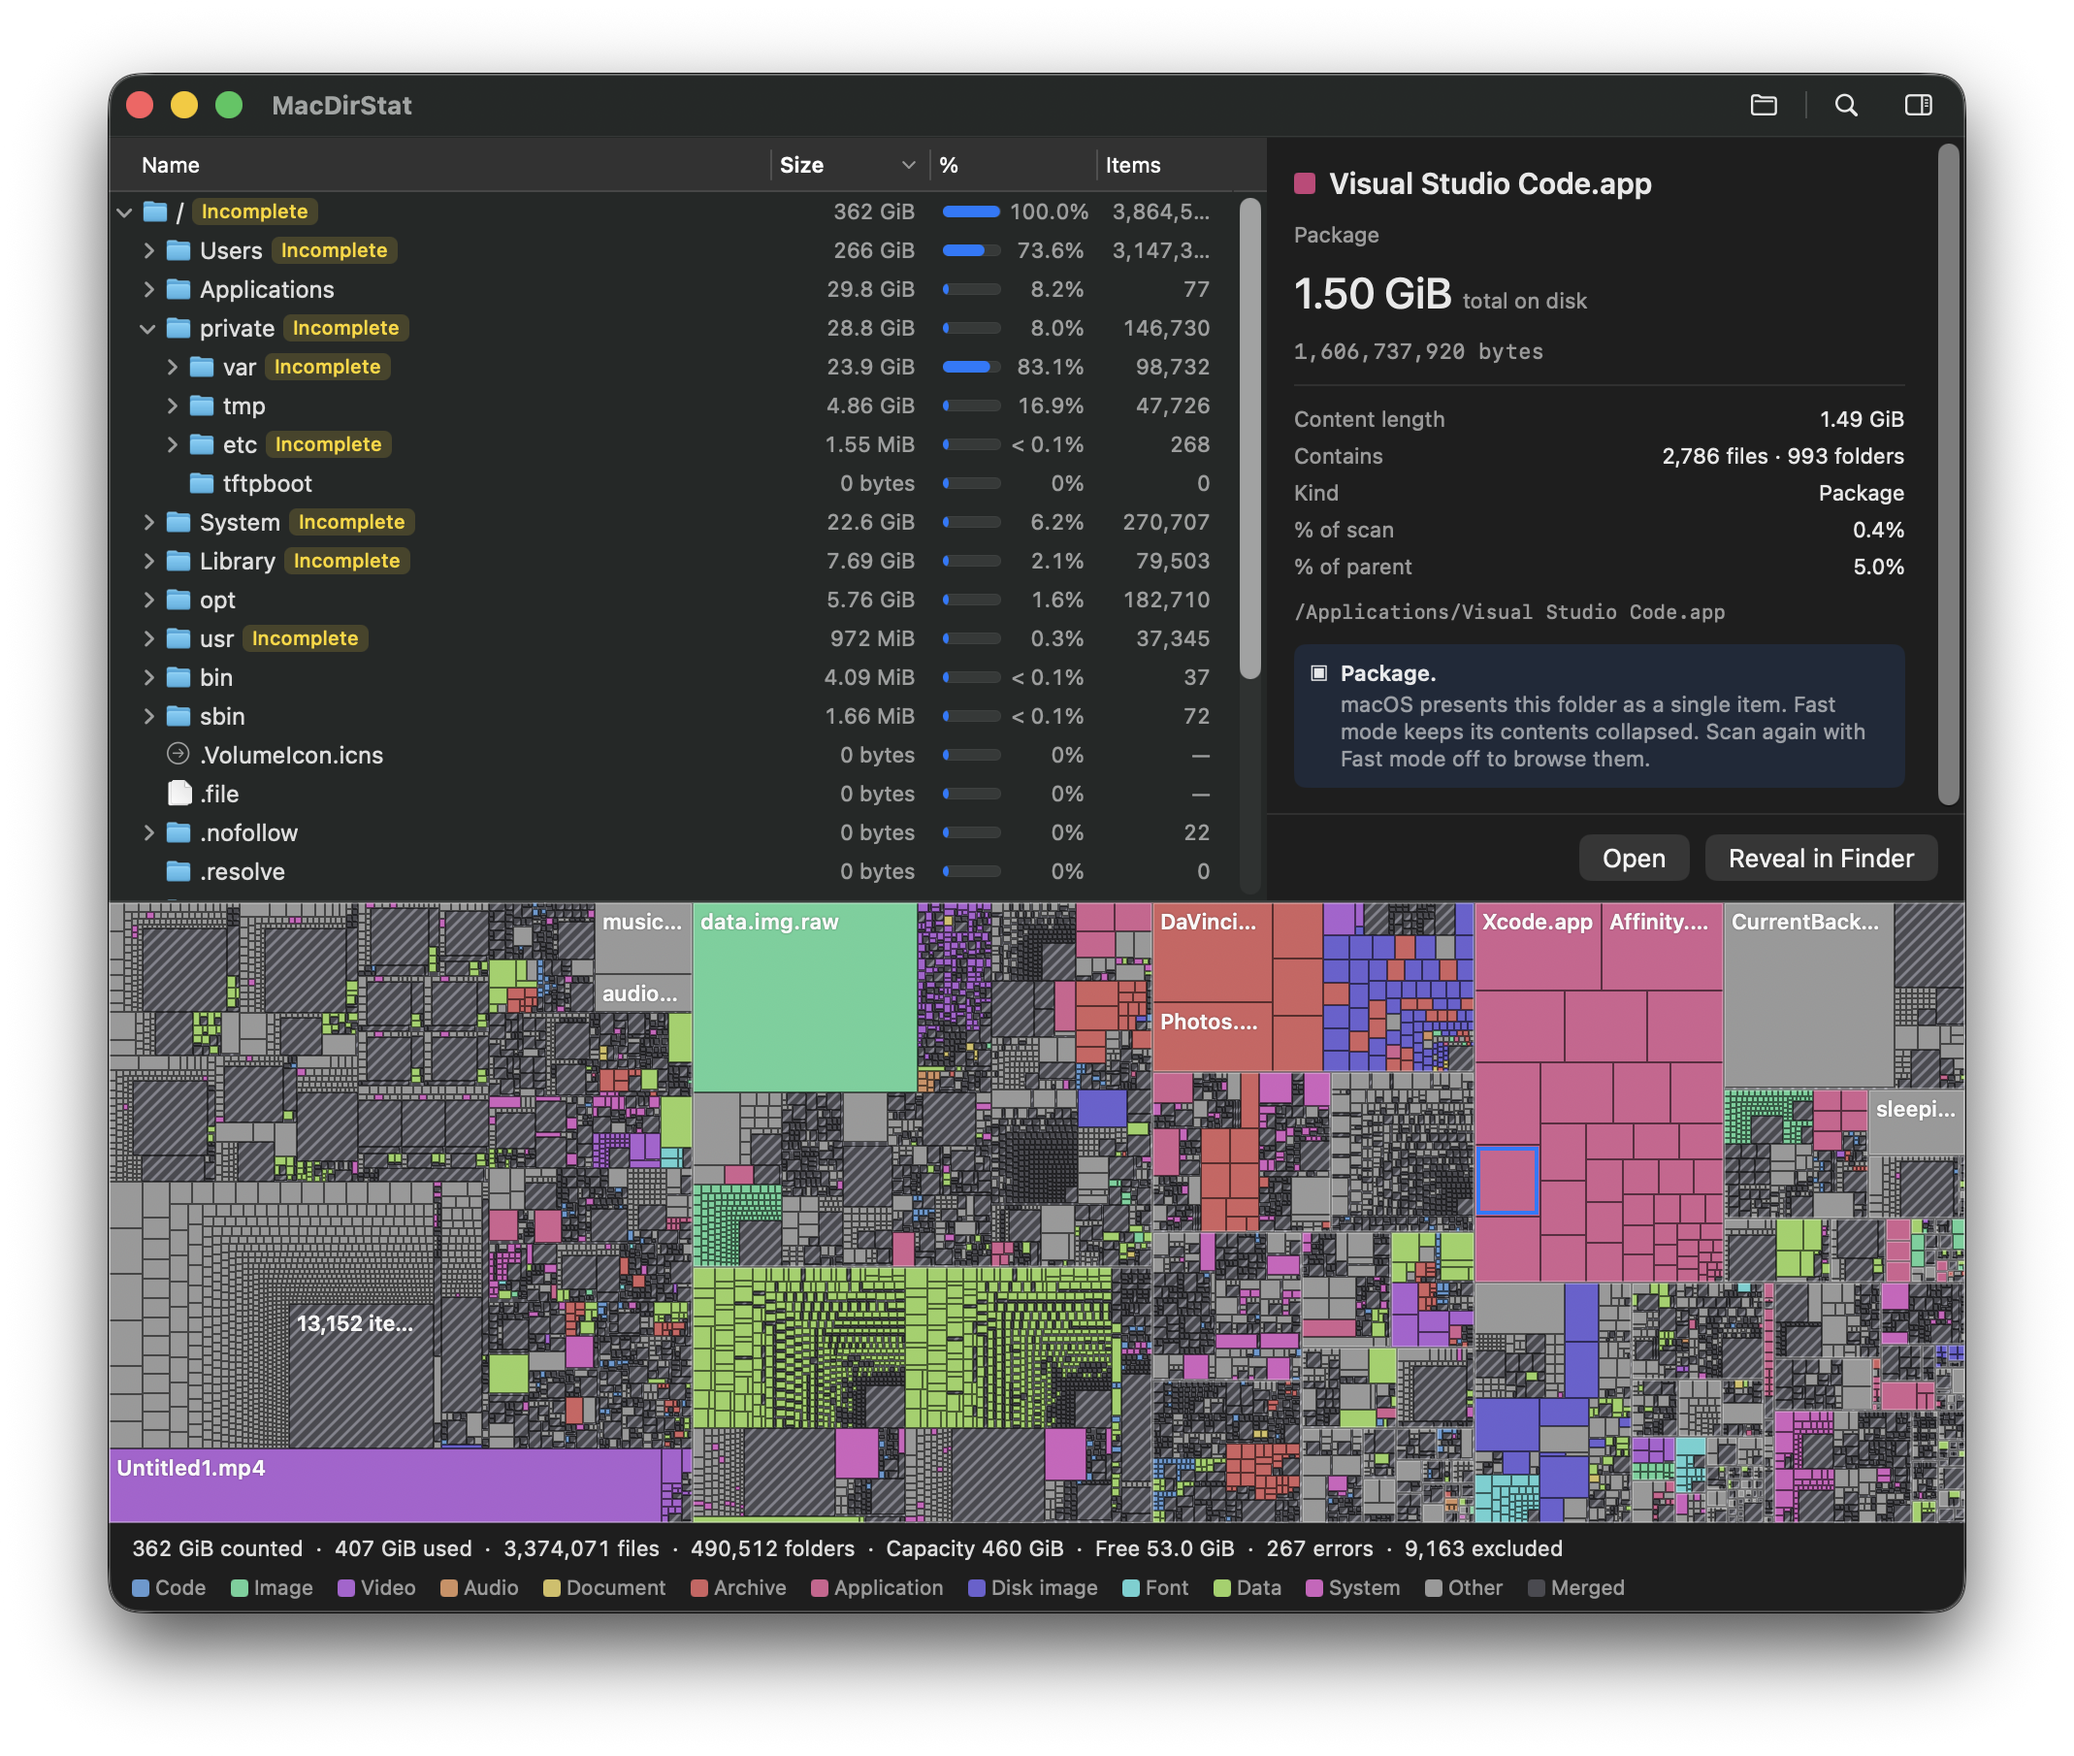
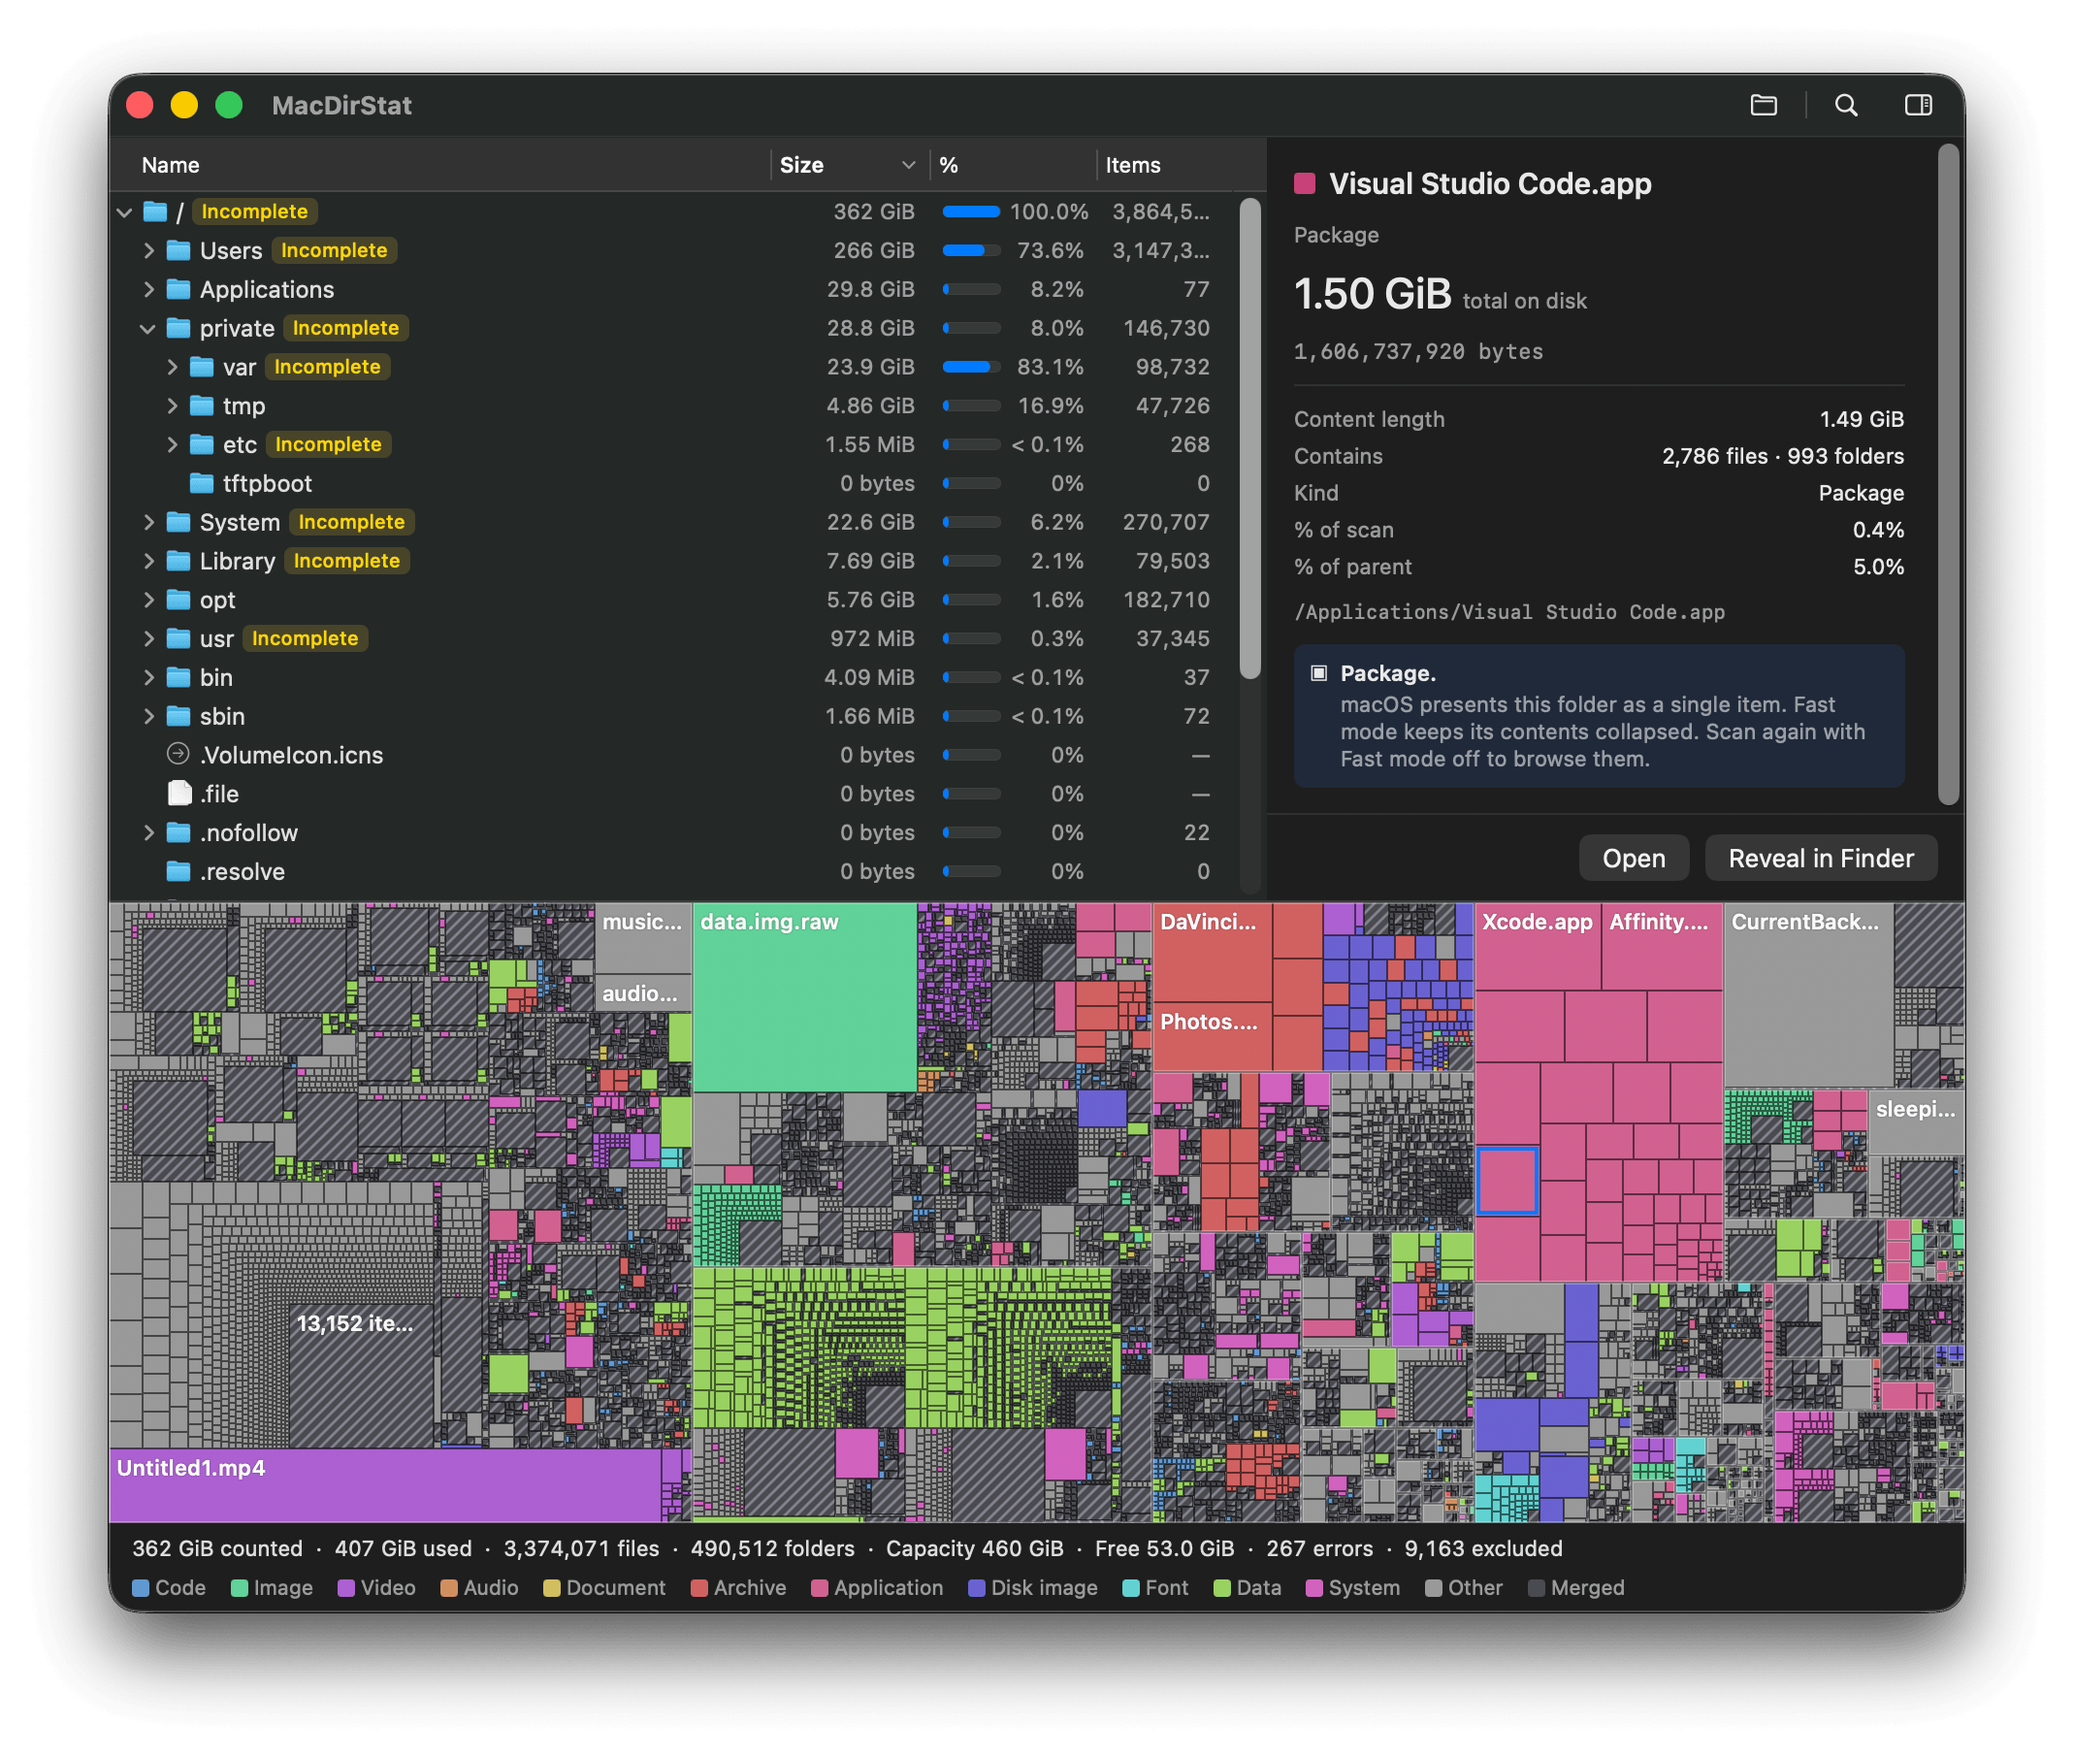
chore: save current work

diff --git a/App/MacDirStat/TreemapView.swift b/App/MacDirStat/TreemapView.swift
@@ -700,15 +700,18 @@ final class TreemapView: NSView {
     private static let labelAttributes: [NSAttributedString.Key: Any] = {
         let paragraph = NSMutableParagraphStyle()
         paragraph.lineBreakMode = .byTruncatingTail
+        let halo = NSShadow()
+        halo.shadowColor = TreemapChrome.labelHalo
+        halo.shadowOffset = .zero
+        halo.shadowBlurRadius = 1
         return [
             .font: NSFont.systemFont(
                 ofSize: CGFloat(TreemapMetrics.labelFontSizePoints), weight: .semibold
             ),
             .foregroundColor: TreemapChrome.labelForeground,
-            // A negative stroke width fills *and* strokes, which is the halo
-            // §6.3 asks for in one pass.
-            .strokeColor: TreemapChrome.labelHalo,
-            .strokeWidth: -3.0,
+            // Keep the halo behind the glyphs: stroking their edges eats into
+            // the small white letterforms and makes them look hollow.
+            .shadow: halo,
             .paragraphStyle: paragraph,
         ]
     }()
